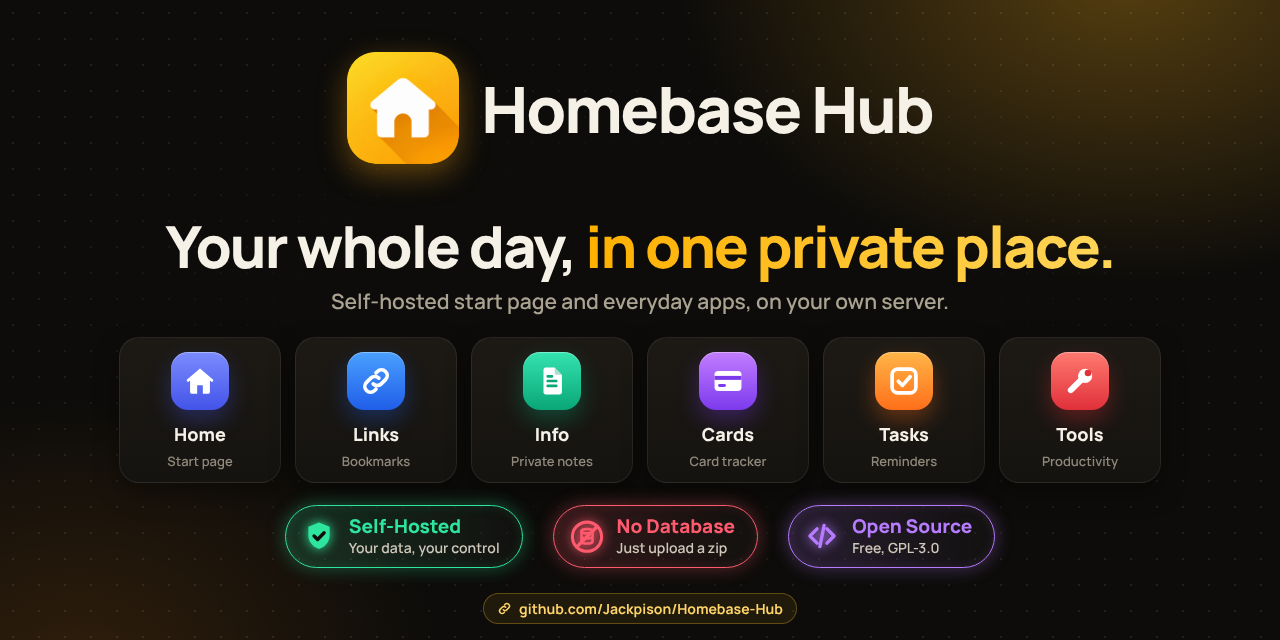
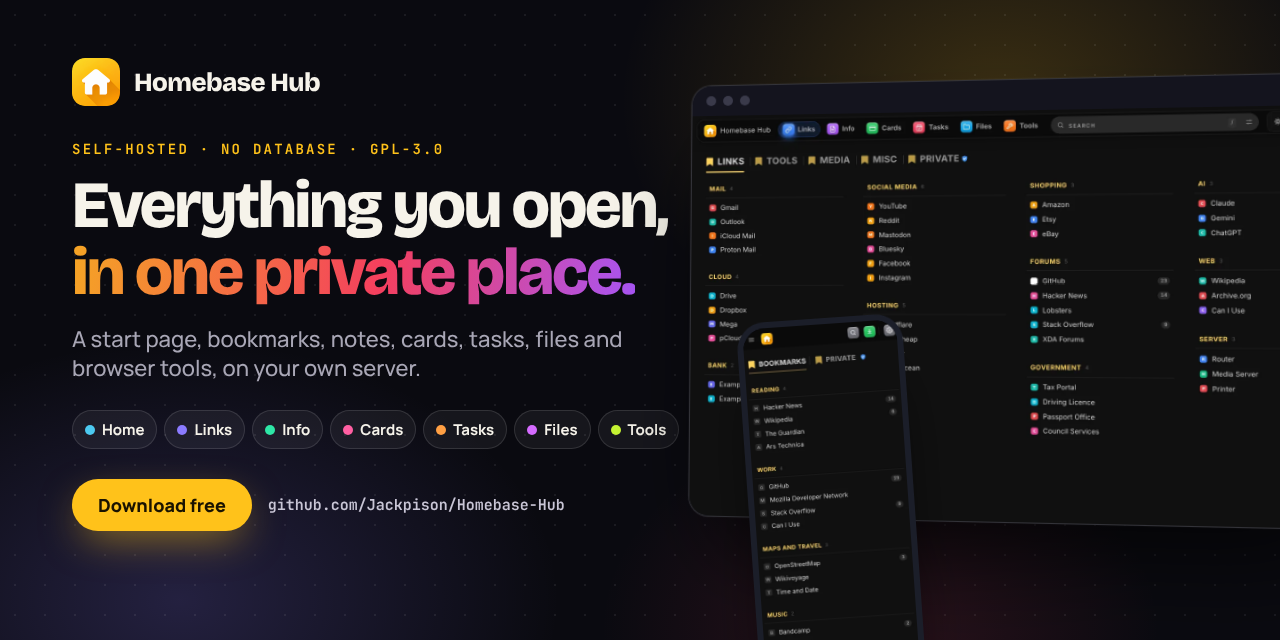
README and social preview: seven pages with Files, new numbers, new screenshots
Claude-Session: https://claude.ai/code/session_01HCoMPeuXaiUE9o3bFZH9C2

diff --git a/README.md b/README.md
@@ -5,7 +5,7 @@
 <h1 align="center">Homebase Hub</h1>
 
 <p align="center"><b>Everything you open every day, in one private place on your own hosting.</b><br>
-Start page, bookmarks, notes, cards, tasks and browser tools. One login, one look, no database.</p>
+Start page, bookmarks, notes, cards, tasks, files and browser tools. One login, one look, no database.</p>
 
 <p align="center">
 <a href="https://github.com/Jackpison/Homebase-Hub/releases/latest"><img src="https://img.shields.io/github/v/release/Jackpison/Homebase-Hub?style=flat-square&label=release&color=ffc21a&labelColor=1a1a1a" alt="Latest release"></a>
@@ -36,7 +36,7 @@ Start page, bookmarks, notes, cards, tasks and browser tools. One login, one loo
 <a href="https://jackpison.github.io/Homebase-Hub/changelog/">Changelog</a>
 </p>
 
-<p align="center"><img src="website/brand/social-preview.png" alt="Homebase Hub: start page, bookmarks, notes, cards, tasks and tools, on your own server" width="860"></p>
+<p align="center"><img src="website/brand/social-preview.png" alt="Homebase Hub: start page, bookmarks, notes, cards, tasks, files and tools, on your own server" width="860"></p>
 
 ---
 
@@ -52,8 +52,8 @@ Start page, bookmarks, notes, cards, tasks and browser tools. One login, one loo
 
 <table align="center">
 <tr>
-<td align="center" width="130"><b>6</b><br>pages</td>
-<td align="center" width="130"><b>53</b><br>browser tools</td>
+<td align="center" width="130"><b>7</b><br>pages</td>
+<td align="center" width="130"><b>47</b><br>browser tools</td>
 <td align="center" width="130"><b>141</b><br>ready-made looks</td>
 <td align="center" width="130"><b>1</b><br>login</td>
 <td align="center" width="130"><b>0</b><br>databases</td>
@@ -103,16 +103,21 @@ Every picture is the running app. Dark is the default and light is one click awa
 </tr>
 <tr>
 <td valign="top"><img src="website/img/cards-crop.webp" alt="Cards page with a table of example cards" width="100%"><br><sub><b>Cards.</b> Your cards in one table, with yearly charges added up.</sub></td>
+<td valign="top"><img src="website/img/files.webp" alt="Files page with a list of files and a details panel" width="100%"><br><sub><b>Files.</b> Private storage on your server, locked in your browser before it is sent.</sub></td>
+</tr>
+<tr>
 <td valign="top"><img src="website/img/s-overview.webp" alt="Settings overview" width="100%"><br><sub><b>Settings.</b> Where things stand, and what to look at next.</sub></td>
+<td valign="top"><img src="website/img/files-settings.webp" alt="Files Settings window" width="100%"><br><sub><b>Files Settings.</b> Privacy, the size limit, share links and Trash.</sub></td>
 </tr>
 </table>
 
 <p align="center"><img src="website/img/m-links.webp" alt="Links on a phone" width="200">
 &nbsp;&nbsp;<img src="website/img/m-info.webp" alt="Info on a phone" width="200">
-&nbsp;&nbsp;<img src="website/img/m-tasks.webp" alt="Tasks on a phone" width="200"><br>
+&nbsp;&nbsp;<img src="website/img/m-tasks.webp" alt="Tasks on a phone" width="200">
+&nbsp;&nbsp;<img src="website/img/m-files.webp" alt="Files on a phone" width="200"><br>
 <sub><b>On a phone.</b> Every page works on a small screen.</sub></p>
 
-<p align="center"><a href="https://jackpison.github.io/Homebase-Hub/screenshots/"><b>See every page and its settings on the website →</b></a></p>
+<p align="center"><a href="https://jackpison.github.io/Homebase-Hub/screenshots/"><b>See every page and its settings on the website →</b></a> &nbsp;·&nbsp; <a href="https://jackpison.github.io/Homebase-Hub/"><b>Watch the 2-minute video →</b></a></p>
 
 <details>
 <summary><b>The settings of each page</b></summary>
